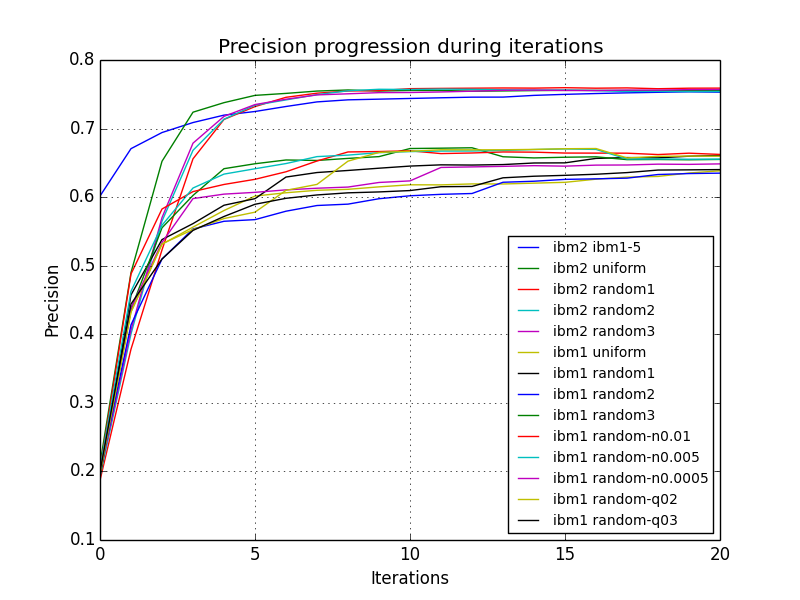
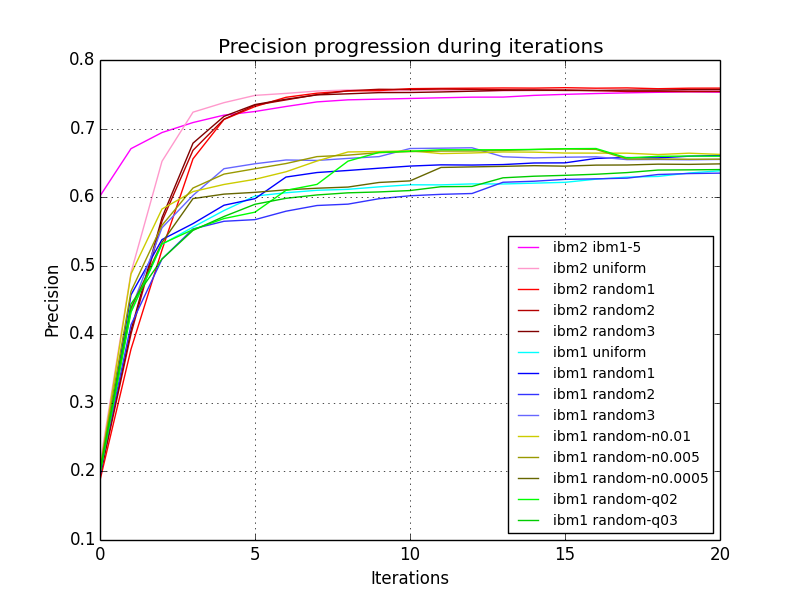
Better colors for graphs

Changed region(s): [[0.125, 0.12, 0.9062, 0.78], [0.125, 0.27, 0.1562, 0.3]]

diff --git a/src/util/graph.py b/src/util/graph.py
@@ -1,6 +1,9 @@
 from os import path
 import matplotlib.pyplot as plt
 
+#
+# Quick hack script for generating nice graphs from the output
+#
 
 def read_results(model_path, corpus_name):
 
@@ -41,10 +44,81 @@ def read_results(model_path, corpus_name):
     return r
 
 
+def print_best(all_models):
+    print "Best Recall"
+    print max([(x[0],x[1][20][7]) for x in all_models], key=lambda x: x[1])
+    print "Worst Recall"
+    print min([(x[0],x[1][20][7]) for x in all_models], key=lambda x: x[1])
+    print "Best Precision"
+    print max([(x[0], x[1][20][6]) for x in all_models], key=lambda x: x[1])
+    print "Worst Precision"
+    print min([(x[0], x[1][20][6]) for x in all_models], key=lambda x: x[1])
+    print "Best AER"
+    print min([(x[0], x[1][20][9]) for x in all_models], key=lambda x: x[1])
+    print "Worst AER"
+    print max([(x[0], x[1][20][9]) for x in all_models], key=lambda x: x[1])
+
+
+def plot_likelihoods(all_models,colors):
+    legends = []
+    for i,(name, model_data) in enumerate(all_models):
+        legends.append(name)
+        plt.plot(range(1, 21), [iteration_data[2] for iteration_data in model_data if iteration_data[2] != 0], color=colors[i])
+    plt.legend(legends, loc='lower right', prop={'size':10})
+    plt.xlabel('Iterations')
+    plt.ylabel('Log-likelihood')
+    plt.title('Log-likelihood progression during iterations')
+    plt.grid(True)
+    plt.savefig("../../data/log-likelihood.png")
+    plt.clf()
+
+
+def plot_aer(all_models, colors):
+    legends = []
+    for i,(name, model_data) in enumerate(all_models):
+        legends.append(name)
+        plt.plot(range(0, 21), [iteration_data[9] for iteration_data in model_data], color=colors[i])
+    plt.legend(legends, loc='upper right', prop={'size':10})
+    plt.xlabel('Iterations')
+    plt.ylabel('Alignment Error Rate (AER)')
+    plt.title('AER progression during iterations')
+    plt.grid(True)
+    plt.savefig("../../data/aer.png")
+    plt.clf()
+
+
+def plot_precision(all_models, colors):
+    legends = []
+    for i,(name, model_data) in enumerate(all_models):
+        legends.append(name)
+        plt.plot(range(0, 21), [iteration_data[6] for iteration_data in model_data], color=colors[i])
+    plt.legend(legends, loc='lower right', prop={'size':10})
+    plt.xlabel('Iterations')
+    plt.ylabel('Precision')
+    plt.title('Precision progression during iterations')
+    plt.grid(True)
+    plt.savefig("../../data/precision.png")
+    plt.clf()
+
+
+def plot_recall(all_models, colors):
+    legends = []
+    for i,(name, model_data) in enumerate(all_models):
+        legends.append(name)
+        plt.plot(range(0, 21), [iteration_data[7] for iteration_data in model_data], color=colors[i])
+    plt.legend(legends, loc='lower right', prop={'size':10})
+    plt.xlabel('Iteration')
+    plt.ylabel('Recall')
+    plt.title('Recall progression during iterations')
+    plt.grid(True)
+    plt.savefig("../../data/recall.png")
+    plt.clf()
+
+
 def main():
     """Program entry point"""
 
-    data_path = path.join(path.dirname(__file__), '..', 'data')
+    data_path = path.join(path.dirname(__file__), '..', '..', 'data')
     corpus_name = 'hansards.36.2'  # hansards.36.2
 
     model_paths = [
@@ -70,83 +144,29 @@ def main():
         name = path.split(path.split(model_path)[0])[1] + ' ' + path.split(model_path)[1]
         all_models.append((name,read_results(model_path, corpus_name)))
 
-    plot_likelihoods(all_models)
-    plot_aer(all_models)
-    plot_precision(all_models)
-    plot_recall(all_models)
+    colors = [
+        '#ff00ff',
+        '#ff99cc',
+        '#ff0000',
+        '#b30000',
+        '#800000',
+        '#00ffff',
+        '#0000ff',
+        '#3333ff',
+        '#6666ff',
+        '#cccc00',
+        '#999900',
+        '#666600',
+        '#00ff00',
+        '#00cc00'
+    ]
+
+    plot_likelihoods(all_models, colors)
+    plot_aer(all_models, colors)
+    plot_precision(all_models, colors)
+    plot_recall(all_models, colors)
 
     print_best(all_models)
-
-
-def print_best(all_models):
-    print "Best Recall"
-    print max([(x[0],x[1][20][7]) for x in all_models], key=lambda x: x[1])
-    print "Worst Recall"
-    print min([(x[0],x[1][20][7]) for x in all_models], key=lambda x: x[1])
-    print "Best Precision"
-    print max([(x[0], x[1][20][6]) for x in all_models], key=lambda x: x[1])
-    print "Worst Precision"
-    print min([(x[0], x[1][20][6]) for x in all_models], key=lambda x: x[1])
-    print "Best AER"
-    print min([(x[0], x[1][20][9]) for x in all_models], key=lambda x: x[1])
-    print "Worst AER"
-    print max([(x[0], x[1][20][9]) for x in all_models], key=lambda x: x[1])
-
-
-def plot_likelihoods(all_models):
-    legends = []
-    for (name, model_data) in all_models:
-        legends.append(name)
-        plt.plot(range(1, 21), [iteration_data[2] for iteration_data in model_data if iteration_data[2] != 0])
-    plt.legend(legends, loc='lower right', prop={'size':10})
-    plt.xlabel('Iterations')
-    plt.ylabel('Log-likelihood')
-    plt.title('Log-likelihood progression during iterations')
-    plt.grid(True)
-    plt.savefig("../data/log-likelihood.png")
-    plt.clf()
-
-
-def plot_aer(all_models):
-    legends = []
-    for (name, model_data) in all_models:
-        legends.append(name)
-        plt.plot(range(0, 21), [iteration_data[9] for iteration_data in model_data])
-    plt.legend(legends, loc='upper right', prop={'size':10})
-    plt.xlabel('Iterations')
-    plt.ylabel('Alignment Error Rate (AER)')
-    plt.title('AER progression during iterations')
-    plt.grid(True)
-    plt.savefig("../data/aer.png")
-    plt.clf()
-
-
-def plot_precision(all_models):
-    legends = []
-    for (name, model_data) in all_models:
-        legends.append(name)
-        plt.plot(range(0, 21), [iteration_data[6] for iteration_data in model_data])
-    plt.legend(legends, loc='lower right', prop={'size':10})
-    plt.xlabel('Iterations')
-    plt.ylabel('Precision')
-    plt.title('Precision progression during iterations')
-    plt.grid(True)
-    plt.savefig("../data/precision.png")
-    plt.clf()
-
-
-def plot_recall(all_models):
-    legends = []
-    for (name, model_data) in all_models:
-        legends.append(name)
-        plt.plot(range(0, 21), [iteration_data[7] for iteration_data in model_data])
-    plt.legend(legends, loc='lower right', prop={'size':10})
-    plt.xlabel('Iteration')
-    plt.ylabel('Recall')
-    plt.title('Recall progression during iterations')
-    plt.grid(True)
-    plt.savefig("../data/recall.png")
-    plt.clf()
 
 
 if __name__ == "__main__":
